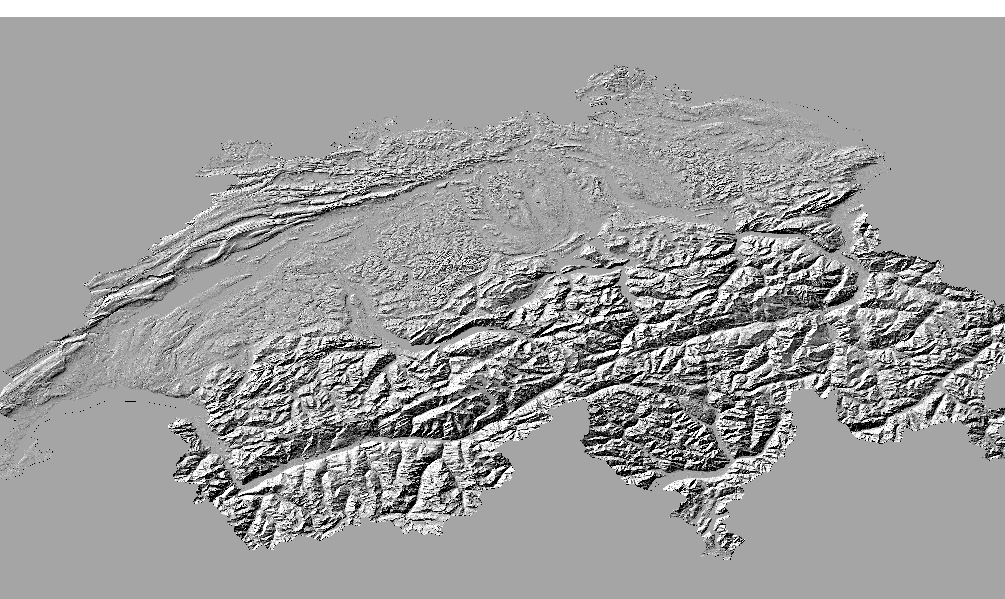
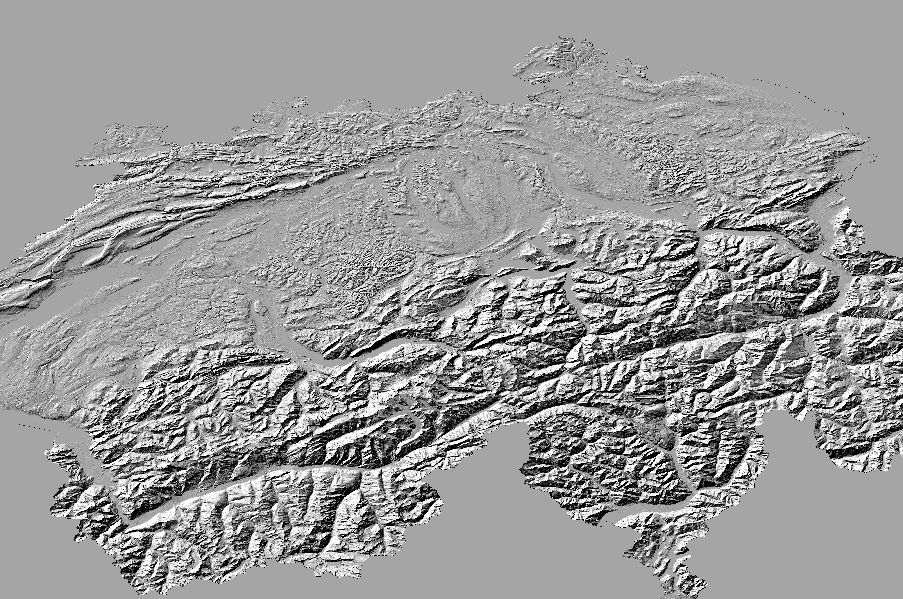
Add combined hillshading

diff --git a/README.md b/README.md
@@ -22,9 +22,10 @@ The DEM from SRTM (1 arc second) with filled up holes is available in clipped an
 
 ### Hillshading
 
-Basic hill shading for direct use in a mapping client.
+Basic hill shading (inclusive version with combination of slope and oblique shading for use as overlay in a mapping client).
 
 ![Switzerland Hillshading](demo/switzerland_hillshade.png)
+![Switzerland Combined Hillshading](demo/switzerland_combined_hillshade.png)
 
 ### Slope Shading
 
